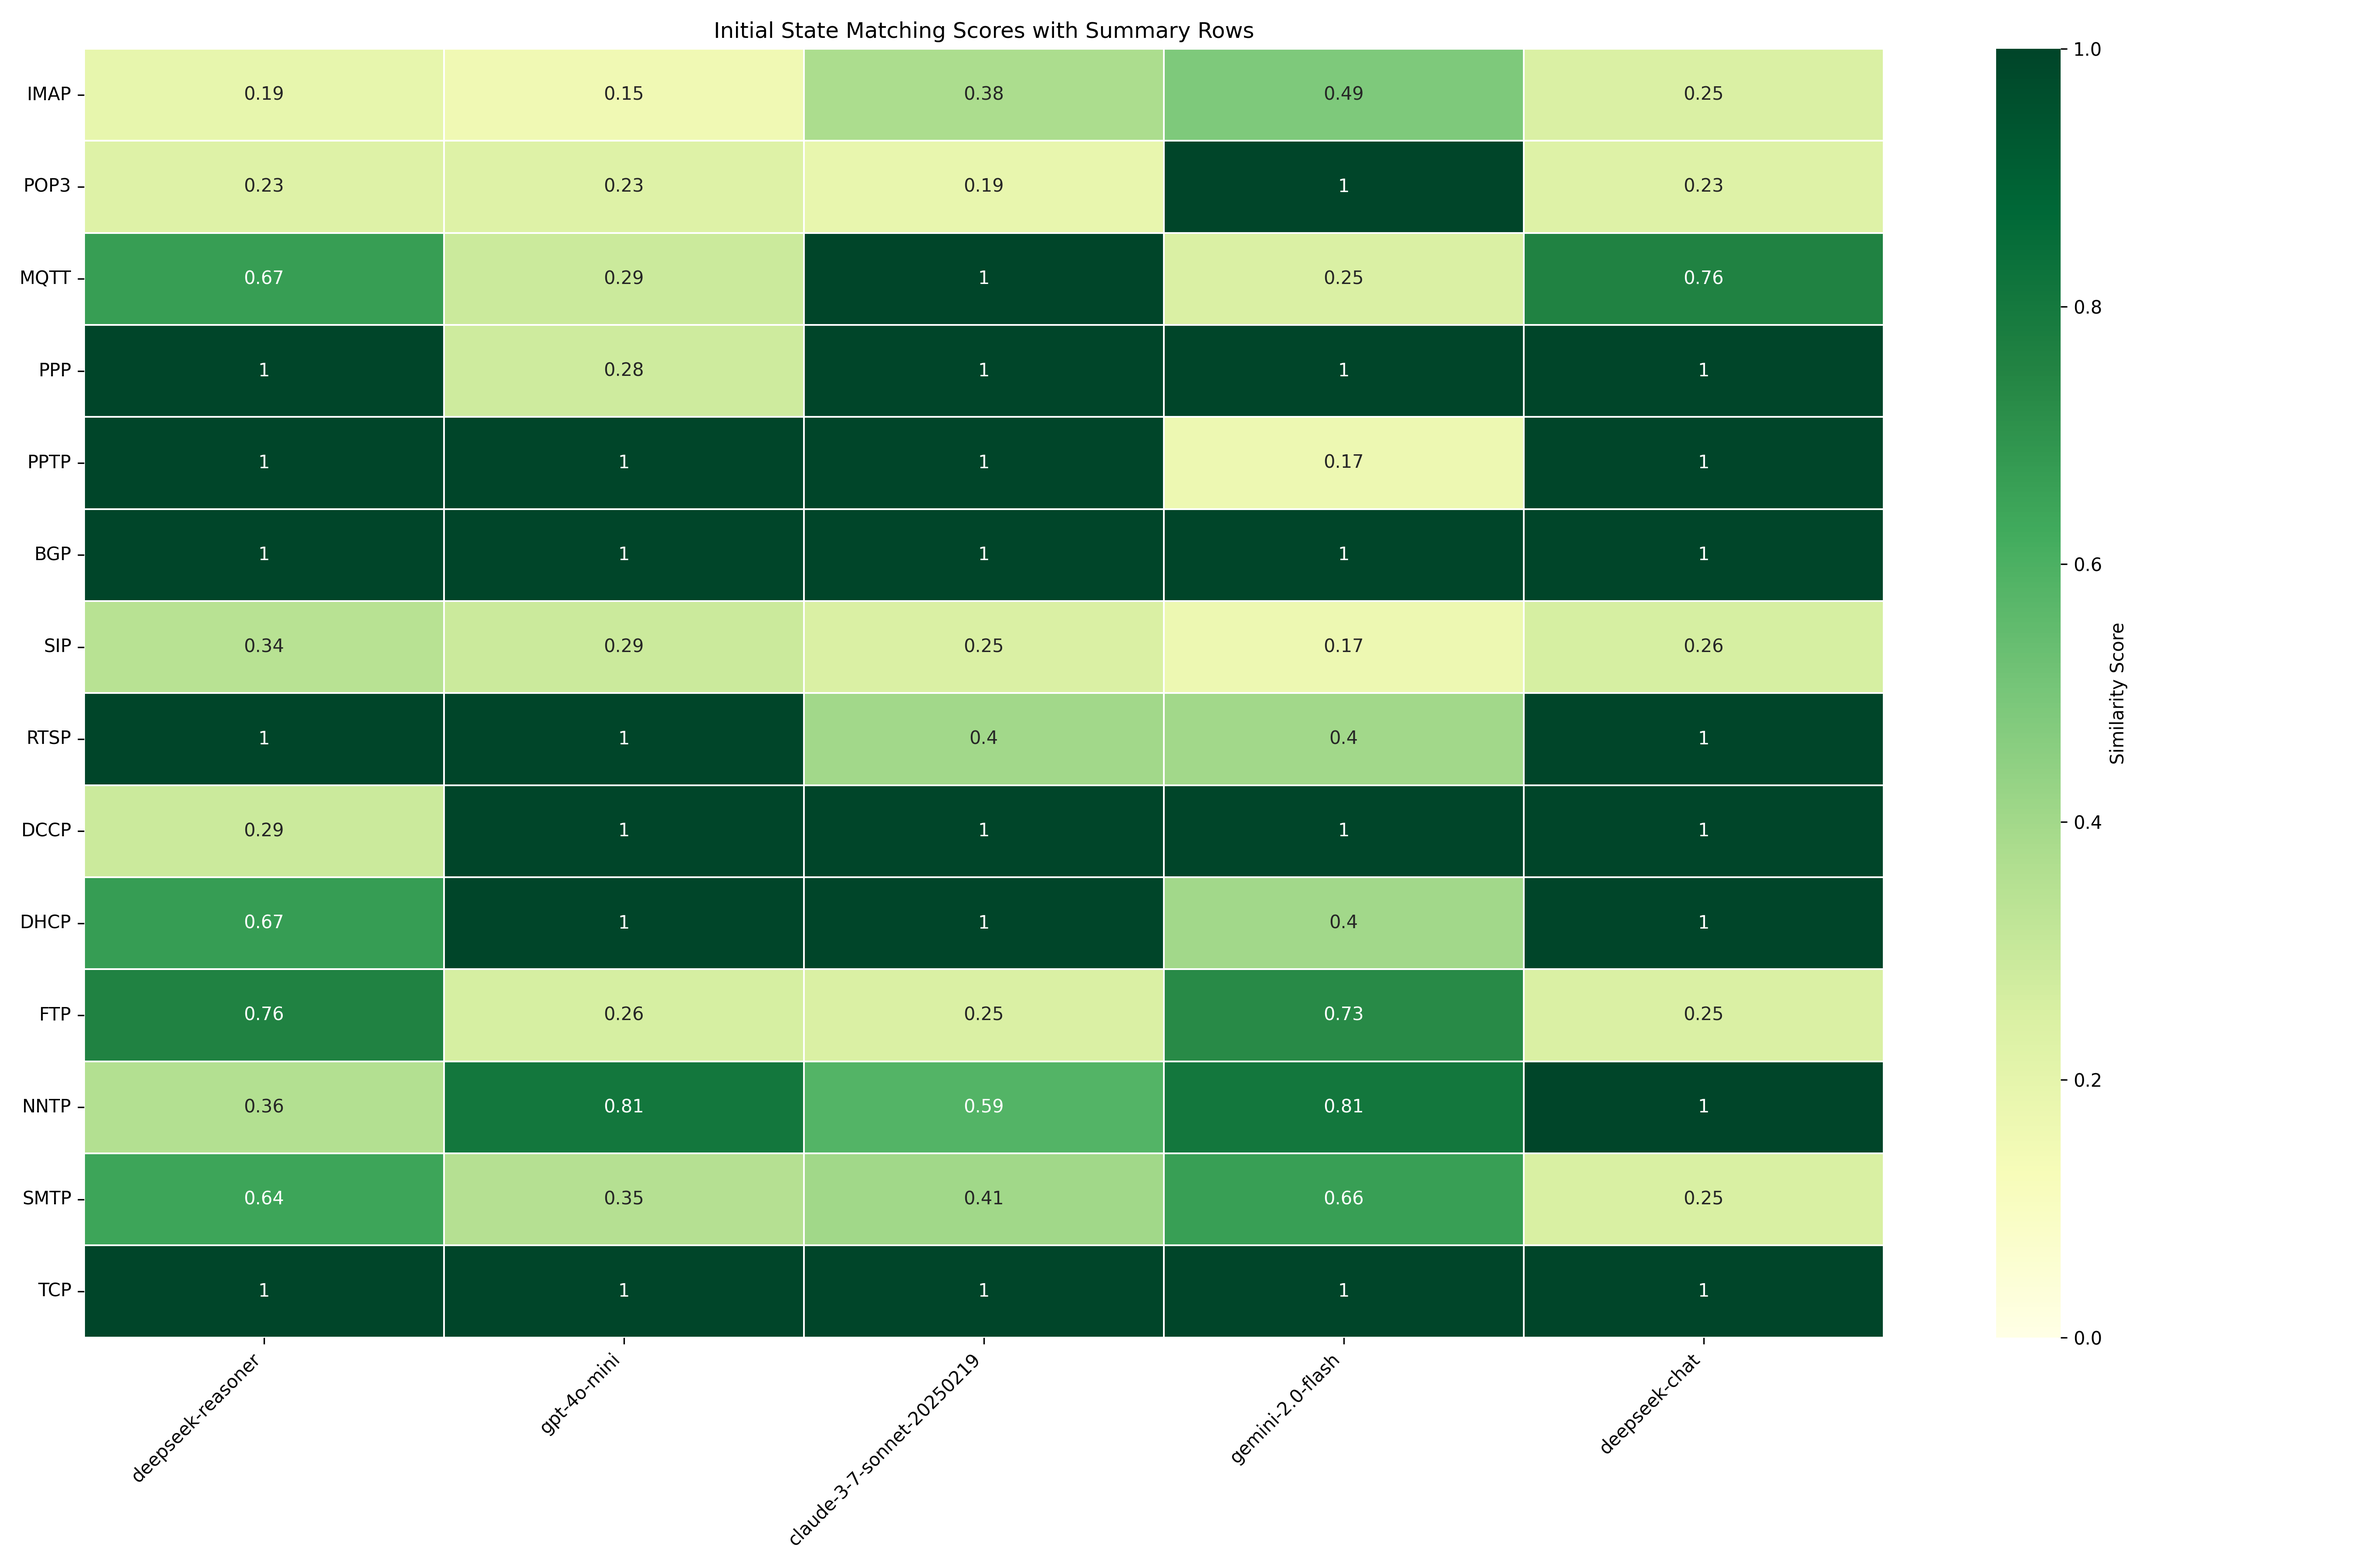
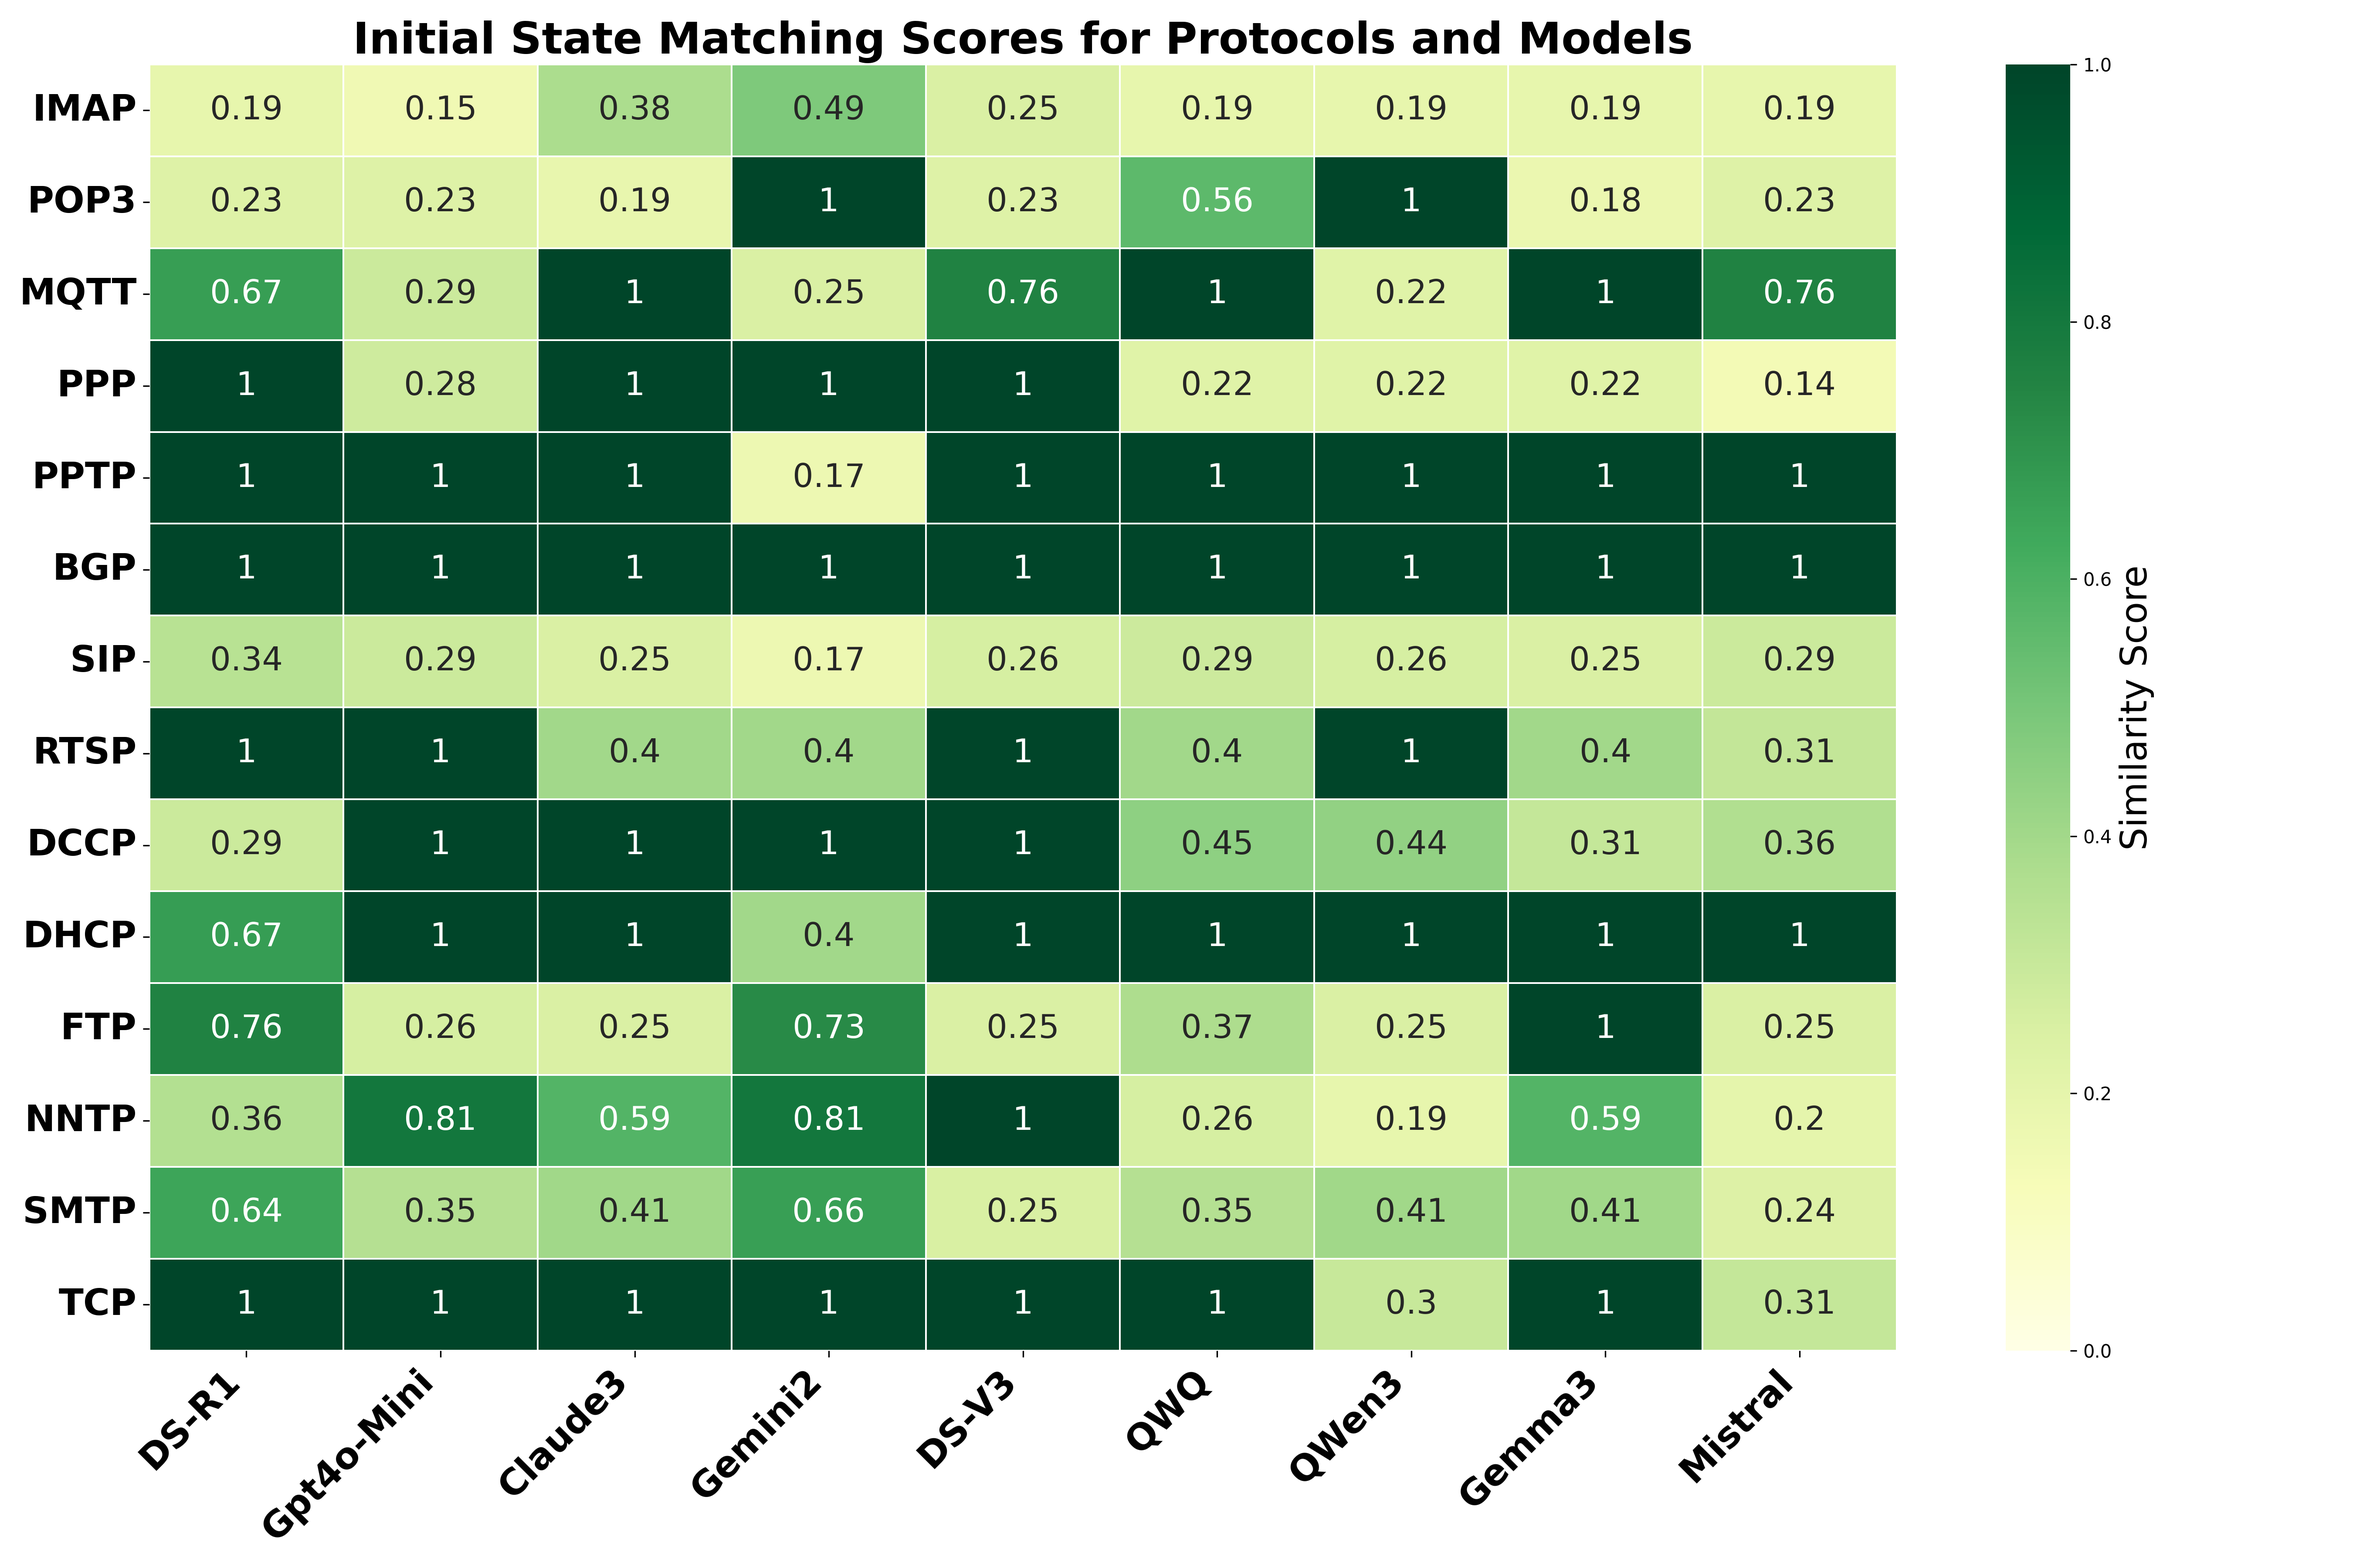
initial states result

diff --git a/eval_fsm_sim.py b/eval_fsm_sim.py
@@ -13,6 +13,18 @@ import seaborn as sns
 
 model = SentenceTransformer('all-MiniLM-L6-v2')
 
+model_name_mapping = {
+    "deepseek-reasoner": "DS-R1",
+    "gpt-4o-mini": "Gpt4o-Mini",
+    "claude-3-7-sonnet-20250219": "Claude3",
+    "gemini-2.0-flash": "Gemini2",
+    "deepseek-chat": "DS-V3",
+    "qwq": "QWQ",
+    "qwen3:32b": "QWen3",
+    "gemma3:27b": "Gemma3",
+    "mistral-small3.1": "Mistral"
+}
+
 def preprocess_state_name(state_name):
     # Convert to lowercase, remove punctuation, and split compound words
     state_name = state_name.lower()
@@ -148,11 +160,13 @@ def compare_initial_states(models, protocols, fsm_dir, threshold=0.5):
 
         if not gt_file:
             continue
-
+        
+        print("current protocol:", protocol)
         gt_initial = preprocess_state_name(extract_initial_state(gt_file))
 
         # Iterate over each model
         for model in models:
+            print("current model:", model)
             extracted_file = None
 
             # Find the extracted FSM file for the protocol and model
@@ -182,7 +196,7 @@ def compare_initial_states(models, protocols, fsm_dir, threshold=0.5):
 def plot_score_matrix(score_matrix, threshold=0.5, output_file='score_matrix.png'):
     # Ensure the score matrix is numeric
     numeric_matrix = score_matrix.astype(float).copy()
-    plt.figure(figsize=(18, 12))
+    plt.figure(figsize=(24, 18))
     # Custom color map with yellow for <=0.5 and green for >0.5
     cmap = sns.diverging_palette(65, 145, s=85, l=65, sep=20, as_cmap=True)
     # Ensure the score matrix is numeric
@@ -196,10 +210,19 @@ def plot_score_matrix(score_matrix, threshold=0.5, output_file='score_matrix.png
     plt.figure(figsize=(18, 12))
     cmap = plt.get_cmap('YlGn')
     # Use different color intensities for scores above and below the threshold
-    ax = sns.heatmap(numeric_matrix, annot=True, cmap=cmap, linewidths=0.5, center=threshold, cbar_kws={"label": "Similarity Score"}, vmin=0, vmax=1)
-    plt.title("Initial State Matching Scores with Summary Rows")
-    plt.xticks(rotation=45, ha="right")
-    plt.yticks(rotation=0)
+    ax = sns.heatmap(numeric_matrix, 
+                     annot=True, 
+                     cmap=cmap, 
+                     linewidths=0.5, 
+                     center=threshold, 
+                     cbar_kws={"label": "Similarity Score"}, 
+                     vmin=0, 
+                     vmax=1,
+                     annot_kws={"size": 18})
+    plt.title("Initial State Matching Scores for Protocols and Models", fontsize=24, weight='bold')
+    plt.xticks(rotation=45, ha="right", fontsize=20, weight='bold')
+    plt.yticks(rotation=0, fontsize=20, weight='bold')
+    ax.figure.axes[-1].yaxis.label.set_size(20)
     plt.tight_layout()
     plt.savefig(output_file, dpi=300)
     print(f"Score matrix saved as {output_file}")
@@ -353,20 +376,32 @@ if __name__ == "__main__":
     #batch_evaluate_fsm_similarity()
     protocols = ["IMAP", "POP3", "MQTT","PPP","PPTP", "BGP",
                  "SIP", "RTSP", "DCCP", "DHCP", "FTP", "NNTP", "SMTP", "TCP"]
-    models = ["deepseek-reasoner", "gpt-4o-mini", "claude-3-7-sonnet-20250219", "gemini-2.0-flash", "deepseek-chat"]
+    models = ["deepseek-reasoner", "gpt-4o-mini", "claude-3-7-sonnet-20250219", 
+              "gemini-2.0-flash", "deepseek-chat",
+              "qwq", "qwen3:32b","gemma3:27b","mistral-small3.1"]
     
     
     '''get the initial states results'''
-    # initial_state_results, score_matrix = compare_initial_states(models, protocols, fsm_dir="fsm", threshold=0.5)
-    # print("Initial State Results:", initial_state_results)
-    # print("Score Matrix:\n", score_matrix)
+    initial_state_results, score_matrix = compare_initial_states(models, protocols, fsm_dir="fsm", threshold=0.5)
+    print("Initial State Results:", initial_state_results)
+    print("Score Matrix:\n", score_matrix)
     
-    # plot_score_matrix(score_matrix, threshold=0.5, output_file='initial_state_score_matrix.png')
+    # Replace with your actual score matrix DataFrame
+    score_matrix.columns = [model_name_mapping.get(col, col) for col in score_matrix.columns]
+    plot_score_matrix(score_matrix, threshold=0.5, output_file='initial_state_score_matrix.png')
     
-    
+    # Count the number of protocols with values > 0.5 for each model
+    high_score_counts = (score_matrix > 0.5).sum()
+
+    # Convert to DataFrame for easy viewing
+    high_score_counts_df = high_score_counts.reset_index()
+    high_score_counts_df.columns = ["Model", "High Score Count"]
+
+    print(high_score_counts_df)
+
     '''get the state matches results'''
-    all_matches, summary_df = match_all_states(models, protocols, fsm_dir="fsm", threshold=0.5)
-    print("All Matches:\n", all_matches)
-    print("sumaary_df:\n", summary_df)
+    # all_matches, summary_df = match_all_states(models, protocols, fsm_dir="fsm", threshold=0.5)
+    # print("All Matches:\n", all_matches)
+    # print("sumaary_df:\n", summary_df)
     
     

diff --git a/output_parser_fsm.py b/output_parser_fsm.py
@@ -177,14 +177,14 @@ def extract_final_fsm(directory: str, model: str, protocol: str, output_dir: str
 
 
 if __name__ == "__main__":
-    protocols = ["DCCP","DHCP", "FTP", "IMAP", 
-                  "NNTP", "POP3", "RTSP", "SIP", "SMTP", "TCP",
-                  "MQTT", 'PPP', "PPTP", "BGP"]
-    # protocols = ["MQTT", 'PPP', "PPTP", "BGP"]
+    # protocols = ["DCCP","DHCP", "FTP", "IMAP", 
+    #               "NNTP", "POP3", "RTSP", "SIP", "SMTP", "TCP",
+    #               "MQTT", 'PPP', "PPTP", "BGP"]
+    protocols = ["NNTP"]
     #protocols = ["SIP", "NNTP", "FTP"]
     # close_models = ["deepseek-reasoner","gpt-4o-mini", "claude-3-7-sonnet-20250219","gemini-2.0-flash"]
-    # close_models = ["deepseek-chat"]
-    small_models = ["qwq", "qwen3:32b","gemma3:27b","mistral-small3.1"] # 32b
+    # close_models = ["deepseek-chat"] , "qwen3:32b","gemma3:27b","mistral-small3.1" qwq
+    small_models = ["mistral-small3.1"] # 32b
     directory = "output"
     fsm_dir = "fsm"
     

diff --git a/script.py b/script.py
@@ -284,15 +284,13 @@ if __name__ == "__main__":
     # protocols = ["DCCP","DHCP", "FTP", "IMAP", 
     #              "NNTP", "POP3", "RTSP", "SIP", "SMTP", "TCP",
     #              "MQTT", "PPP", "PPTP", "BGP"]
-    protocols = ["FTP", "IMAP", 
-                  "NNTP", "POP3", "RTSP", "SIP", "SMTP", "TCP",
-                  "MQTT", "PPP", "PPTP", "BGP"]
+    protocols = ["DCCP"]
     
     # model = "deepseek-r1:14b"
     # models = ["deepseek-r1:32b","qwen3:32b","gemma3:27b"]
     # models = ["mistral-small3.1"] # this is 24b
-    # model = ["qwq"]  qwen3:32b "gemma3:27b","mistral-small3.1"
-    models = ["mistral-small3.1"] # 32b
+    models = ["qwq"]  #qwen3:32b "gemma3:27b","mistral-small3.1"
+    #models = ["mistral-small3.1"] # 32b
     for m in models:
         for d in protocols:
             process_protocol(d, m, verbose=True)
